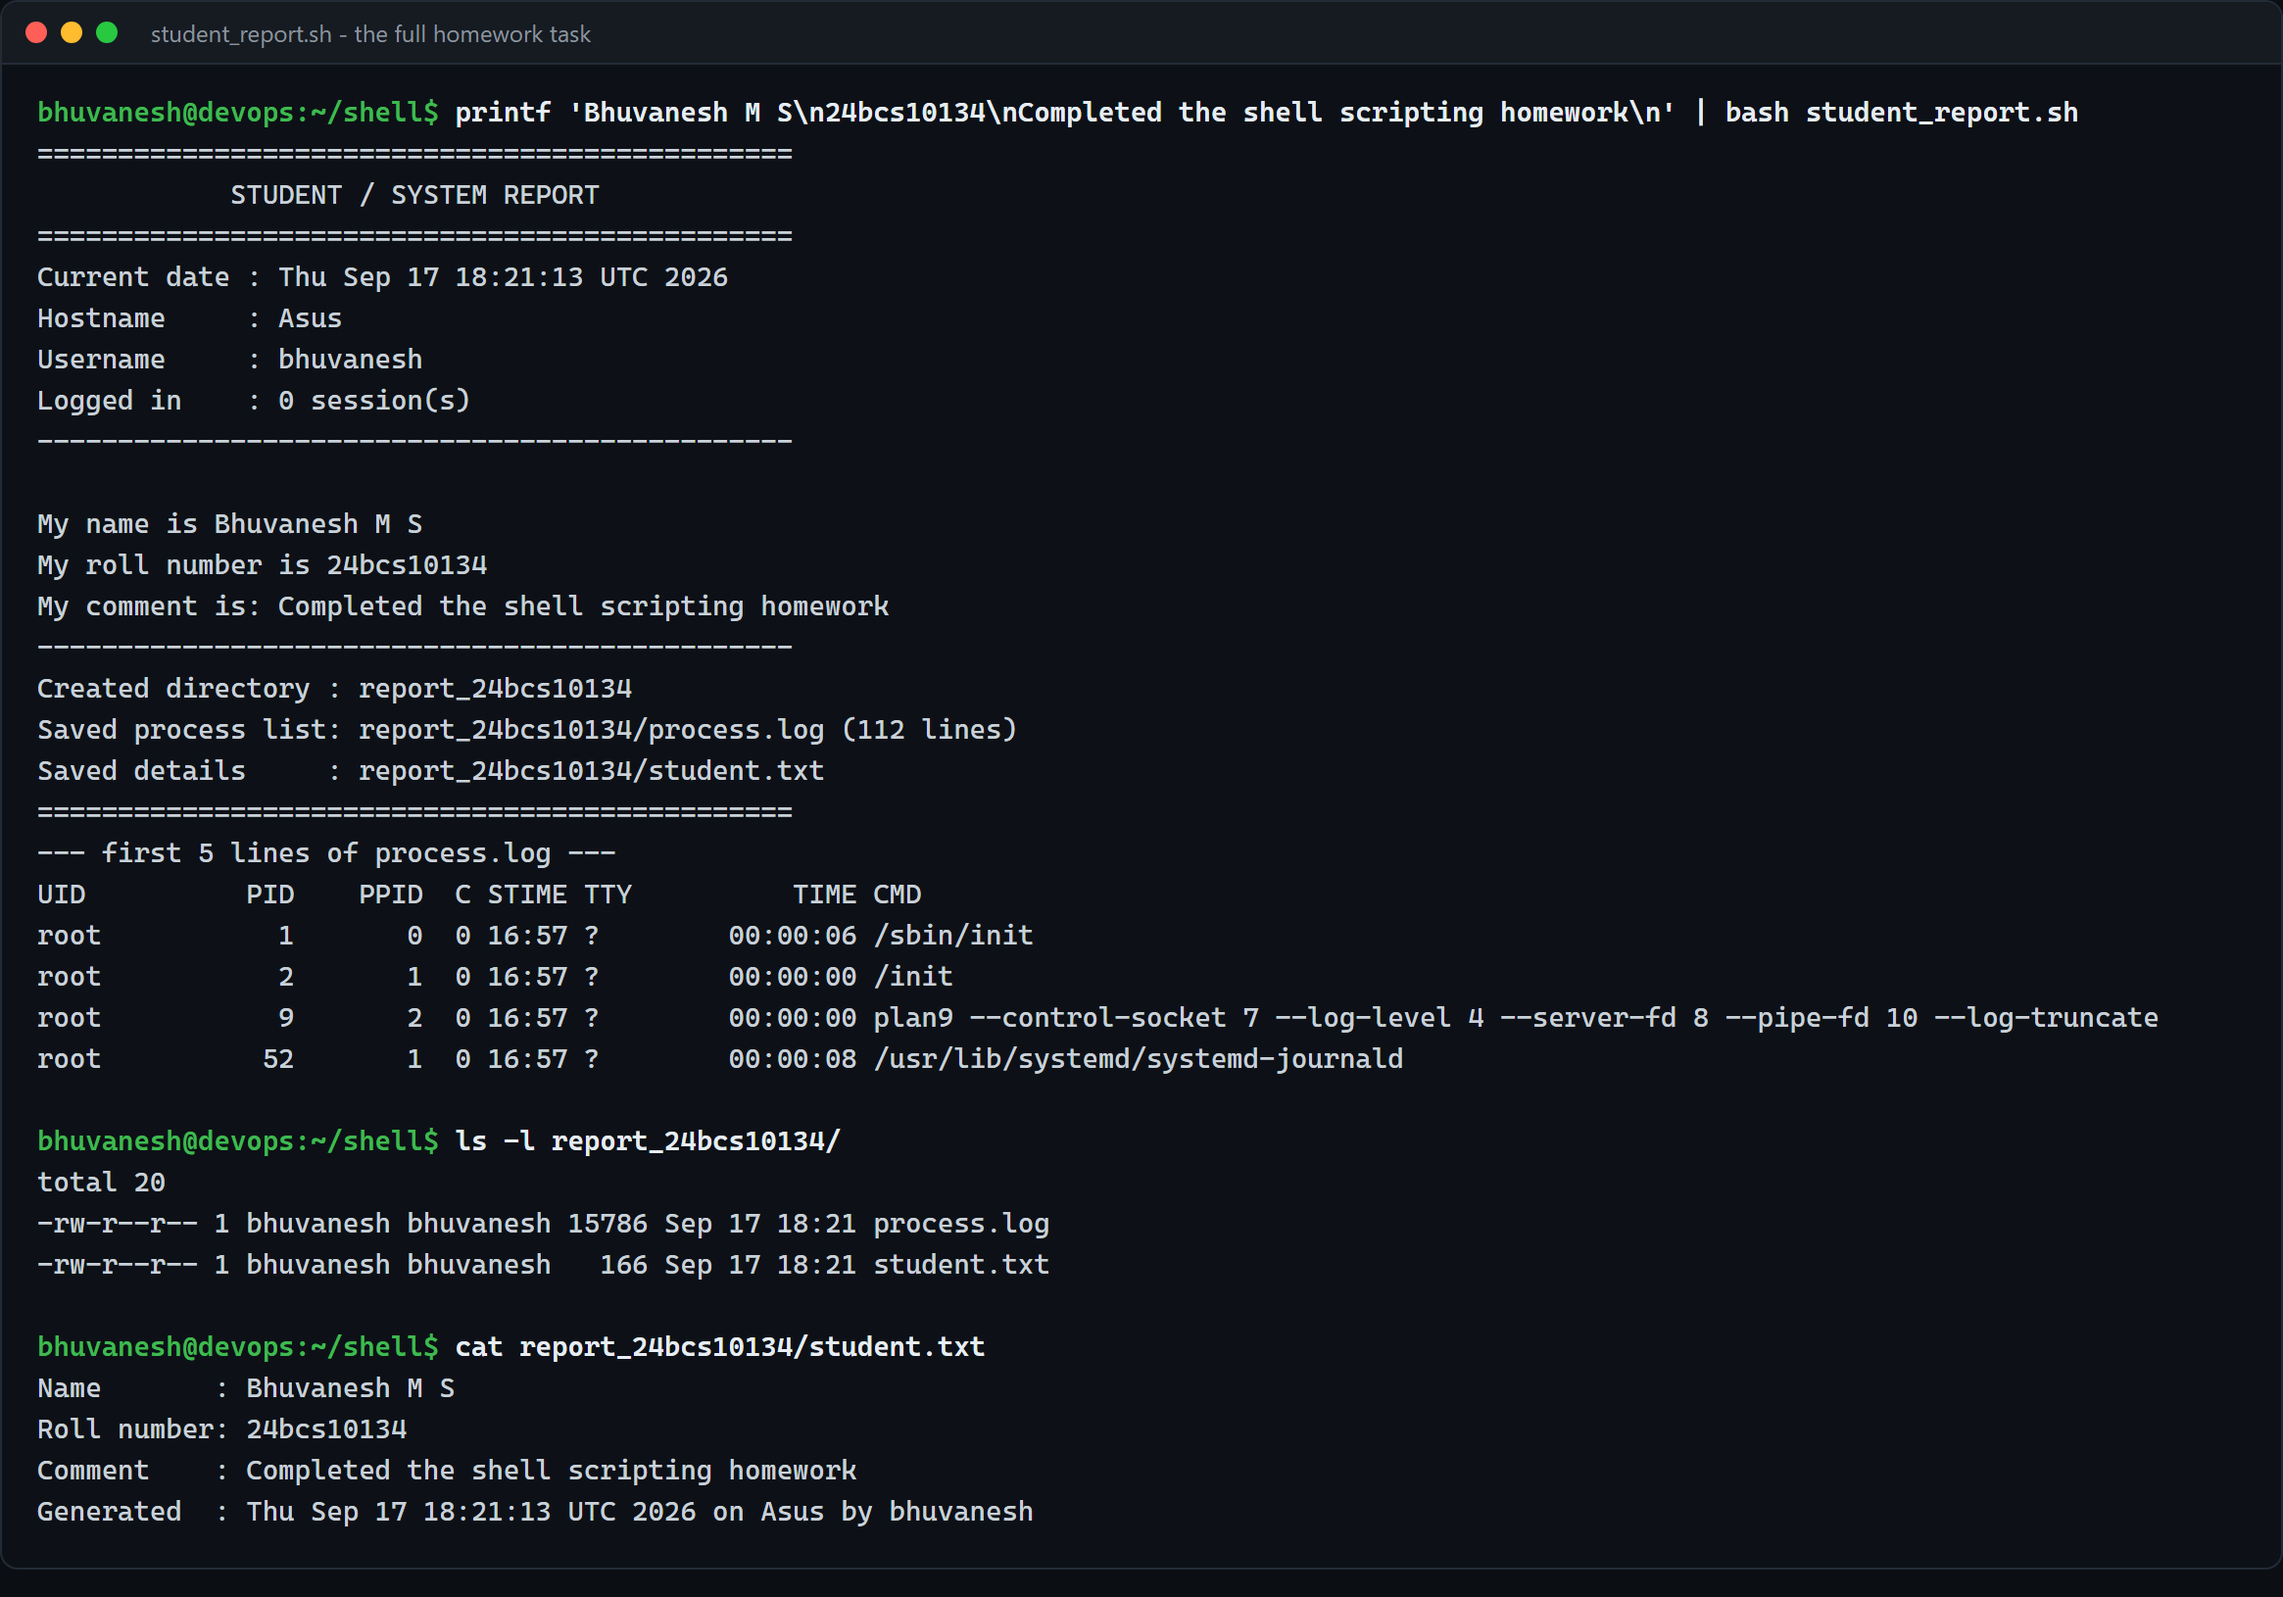
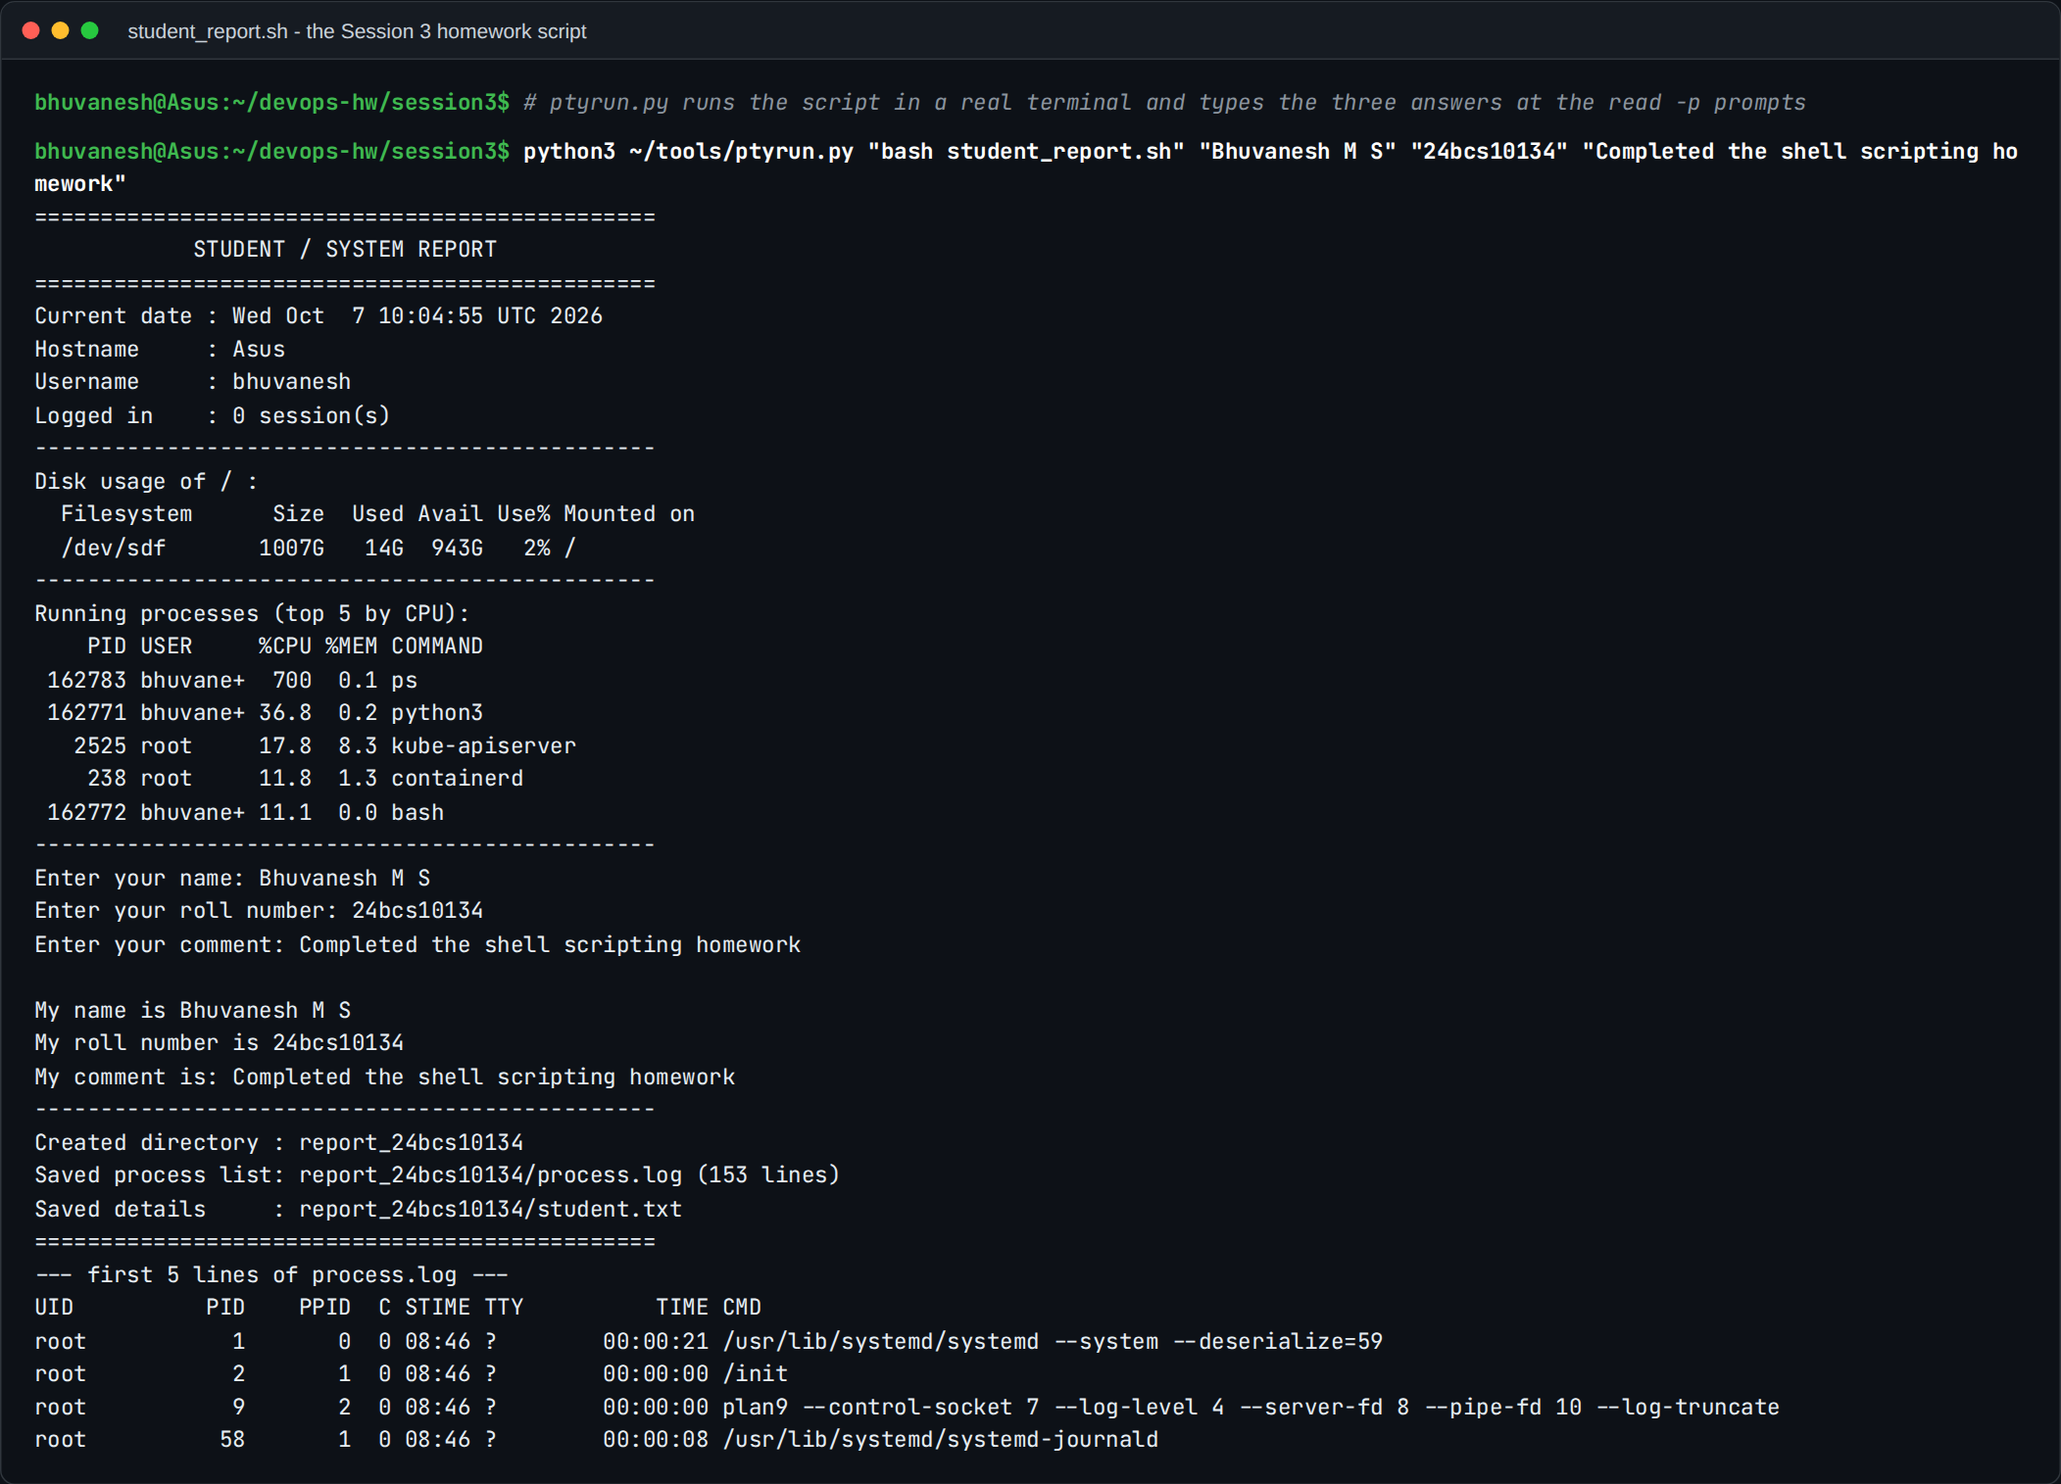
Shell Scripting: disk usage and running processes in the homework script
The brief asks the script to print the disk usage and the running
processes; student_report.sh only saved processes to a file. It now
prints df -h / and the top five processes by CPU as well.

The screenshot is re-captured from a real run in a pseudo-terminal, so
the read -p prompts and the typed answers both show, plus a second
screenshot of the files it left on disk. The README task list now
matches the official brief and maps each requirement to the line of
output that proves it.

diff --git a/session3-shell-scripting/README.md b/session3-shell-scripting/README.md
@@ -8,13 +8,20 @@
 
 ## Homework task ([task.md](task.md))
 
-Write shell scripts that:
+Create a shell script that:
 
-1. Print the **current date**
-2. Print the **hostname** and the **username**
-3. Capture **process information into a file** using `>` redirection
-4. Print **name, roll number and a comment**
-5. Use **variables**, take input with **`read -p`**, and **create a directory and a file**
+1. Prints the **current date**
+2. Prints the **hostname**
+3. Prints the **username**
+4. Prints the **disk usage**
+5. Prints the **running processes**
+6. Uses **variables** to store and use data
+7. Takes user input using **`read -p`**
+8. Creates a directory using **`mkdir`**
+9. Creates a file using **`touch`**
+10. Stores the running processes in the file using **`>`** output redirection
+
+Commands to use: `mkdir`, `touch`, `echo`, `df`, `ps`, `read -p`, variables, `>`.
 
 plus practise the class-along scripts: variables, input, conditionals, loops, functions, and
 file/redirection operations.
@@ -233,54 +240,40 @@ is `mkdir -p`, which succeeds silently either way — that is what my homework s
 
 [`student_report.sh`](student_report.sh) — covers every requirement in `task.md` in one place.
 
-![Homework script](images/07-homework-script.png)
+The script was updated to cover the two items of the brief it was missing: it now prints
+the **disk usage** (`df -h /`) and the **running processes** (`ps`, top five by CPU) on screen,
+as well as saving the full process list to a file. Below is a real run in a terminal. The
+three answers were typed at the `read -p` prompts, which is why the prompts and the answers
+both appear.
 
-```
-===============================================
-            STUDENT / SYSTEM REPORT
-===============================================
-Current date : Thu Sep 17 18:21:13 UTC 2026
-Hostname     : Asus
-Username     : bhuvanesh
-Logged in    : 0 session(s)
------------------------------------------------
-My name is Bhuvanesh M S
-My roll number is 24bcs10134
-My comment is: Completed the shell scripting homework
------------------------------------------------
-Created directory : report_24bcs10134
-Saved process list: report_24bcs10134/process.log (112 lines)
-Saved details     : report_24bcs10134/student.txt
-```
+![Homework script: a real interactive run](images/07-homework-script.png)
 
-and the artefacts it produced on disk:
+![What the script left on disk](images/08-homework-artifacts.png)
 
-```
-$ ls -l report_24bcs10134/
--rw-r--r-- 1 bhuvanesh bhuvanesh 15786 Sep 17 18:21 process.log
--rw-r--r-- 1 bhuvanesh bhuvanesh   166 Sep 17 18:21 student.txt
+| Requirement | How it is done | Where in the output |
+| ----------- | -------------- | ------------------- |
+| Current date | `current_date=$(date)` | `Current date : Wed Oct 7 10:04:55 UTC 2026` |
+| Hostname | `host_name=$(hostname)` | `Hostname : Asus` |
+| Username | `current_user=$(whoami)` | `Username : bhuvanesh` |
+| **Disk usage** | `disk_usage=$(df -h / \| tail -1)` | `/dev/sdf 1007G 14G 943G 2% /` |
+| **Running processes** | `ps -eo pid,user,%cpu,%mem,comm --sort=-%cpu \| head -6` | top 5 processes by CPU |
+| Variables | every value above goes through one, and `report_dir="report_${roll_no}"` is built from input | |
+| Input | `read -p` × 3 (name, roll number, comment) | the three `Enter your ...` prompts |
+| `mkdir` | `mkdir -p "$report_dir"` | `Created directory : report_24bcs10134` |
+| `touch` | `touch "$report_dir/process.log"` | the file exists before anything is written to it |
+| `>` redirection | `ps -ef > "$report_dir/process.log"` | 153-line `process.log` |
 
-$ cat report_24bcs10134/student.txt
-Name       : Bhuvanesh M S
-Roll number: 24bcs10134
-Comment    : Completed the shell scripting homework
-Generated  : Thu Sep 17 18:21:13 UTC 2026 on Asus by bhuvanesh
-```
+Notes on the output:
 
-| Requirement | How it is done |
-| ----------- | -------------- |
-| Current date | `current_date=$(date)` |
-| Hostname / username | `$(hostname)` and `$(whoami)` |
-| Variables | every value goes through one |
-| Input | `read -p` × 3 |
-| Create a directory | `mkdir -p "report_${roll_no}"` — named from the input |
-| Create a file | `touch "$report_dir/process.log"` |
-| Process info into a file | `ps -ef > "$report_dir/process.log"` |
-| Name / roll number / comment | echoed, **and** written to `student.txt` |
-
-The directory name is built from the roll number the user typed (`report_${roll_no}`), which
-is the point of using variables rather than hardcoding — the same script gives every student
-their own folder.
+- `df -h /` prints sizes in human-readable units. The WSL root filesystem is a 1007G virtual
+  disk, 2% used. `tail -1` drops the header row so only the data line goes into the
+  variable, and the script prints its own header.
+- In the process list, `ps` itself shows a very high `%CPU`. It had only just started, and
+  `%CPU` is CPU time divided by run time, so a process a few milliseconds old can show
+  hundreds of percent. The real steady CPU users underneath are `kube-apiserver` and
+  `containerd`, from the minikube cluster running on this machine.
+- The directory name comes from the roll number that was typed, so every student running the
+  script gets their own `report_<roll>` folder.
 
 A related script, [`test1.sh`](test1.sh), is the in-class version of the same idea.
 
@@ -324,6 +317,8 @@ file *.sh
 | ------------- | ------ |
 | Print the current date | Done — §7 |
 | Print hostname and username | Done — §7 |
+| Print disk usage (`df`) | Done — §7 |
+| Print running processes (`ps`) | Done — §7 |
 | Process info into a file with `>` | Done — §7 |
 | Print name, roll number, comment | Done — §2, §7 |
 | Variables | Done — §1 |
